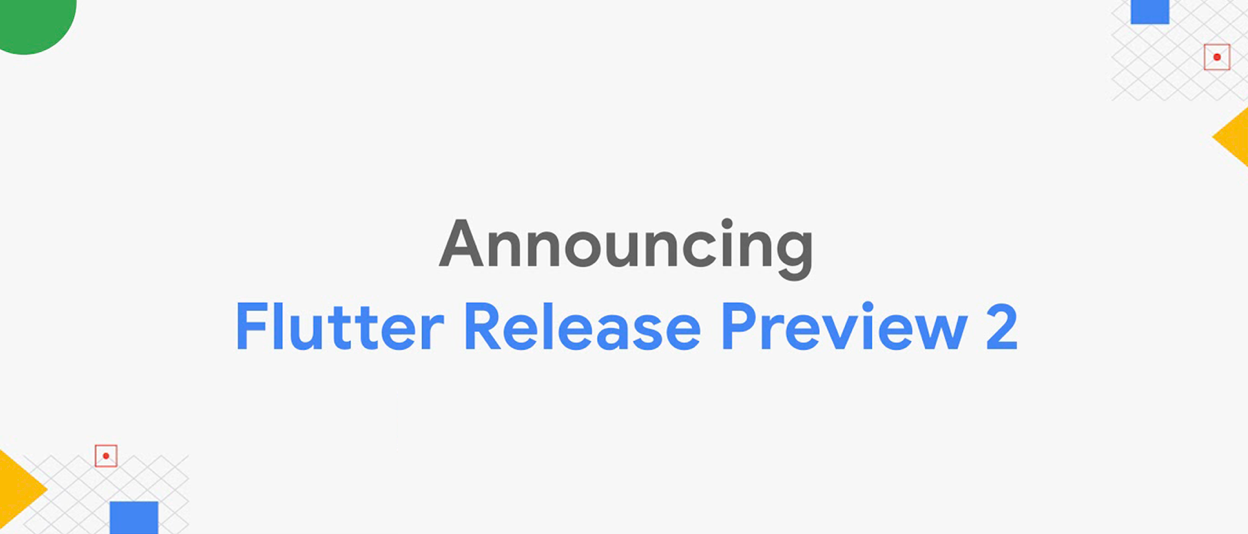
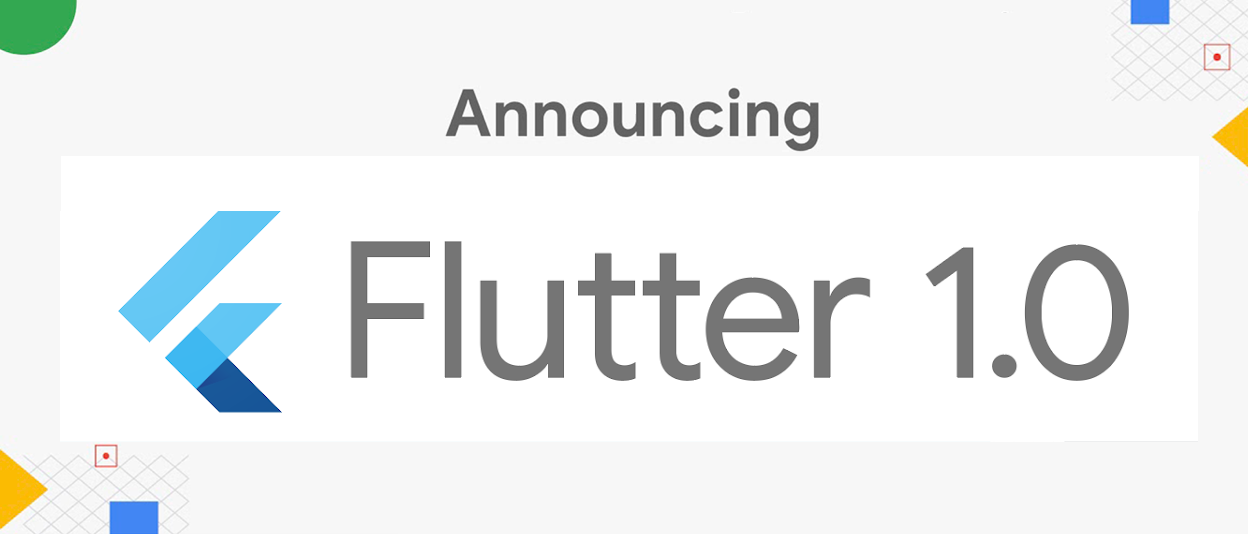
Replace old homepage news item (#1872)

Changed region(s): [[0.0938, 0.3895, 0.9062, 0.779], [0.3438, 0.1498, 0.6562, 0.2996]]

diff --git a/src/index.html b/src/index.html
@@ -249,8 +249,8 @@ description: >
         {% asset 'homepage/news-1.png' alt='A news item image' class="card-img-top" %}
         <div class="card-body">
             <p class="card-text"><small class="text-muted">News</small></p>
-            <h3>Flutter Release Preview 2: Pixel-Perfect on iOS</h3>
-            <a href="https://developers.googleblog.com/2018/09/flutter-release-preview-2-pixel-perfect.html">Read More</a>
+            <h3>Flutter 1.0: Google’s Portable UI Toolkit</h3>
+            <a href="https://developers.googleblog.com/2018/12/flutter-10-googles-portable-ui-toolkit.html">Read More</a>
         </div>
     </div>
     <div class="card">
